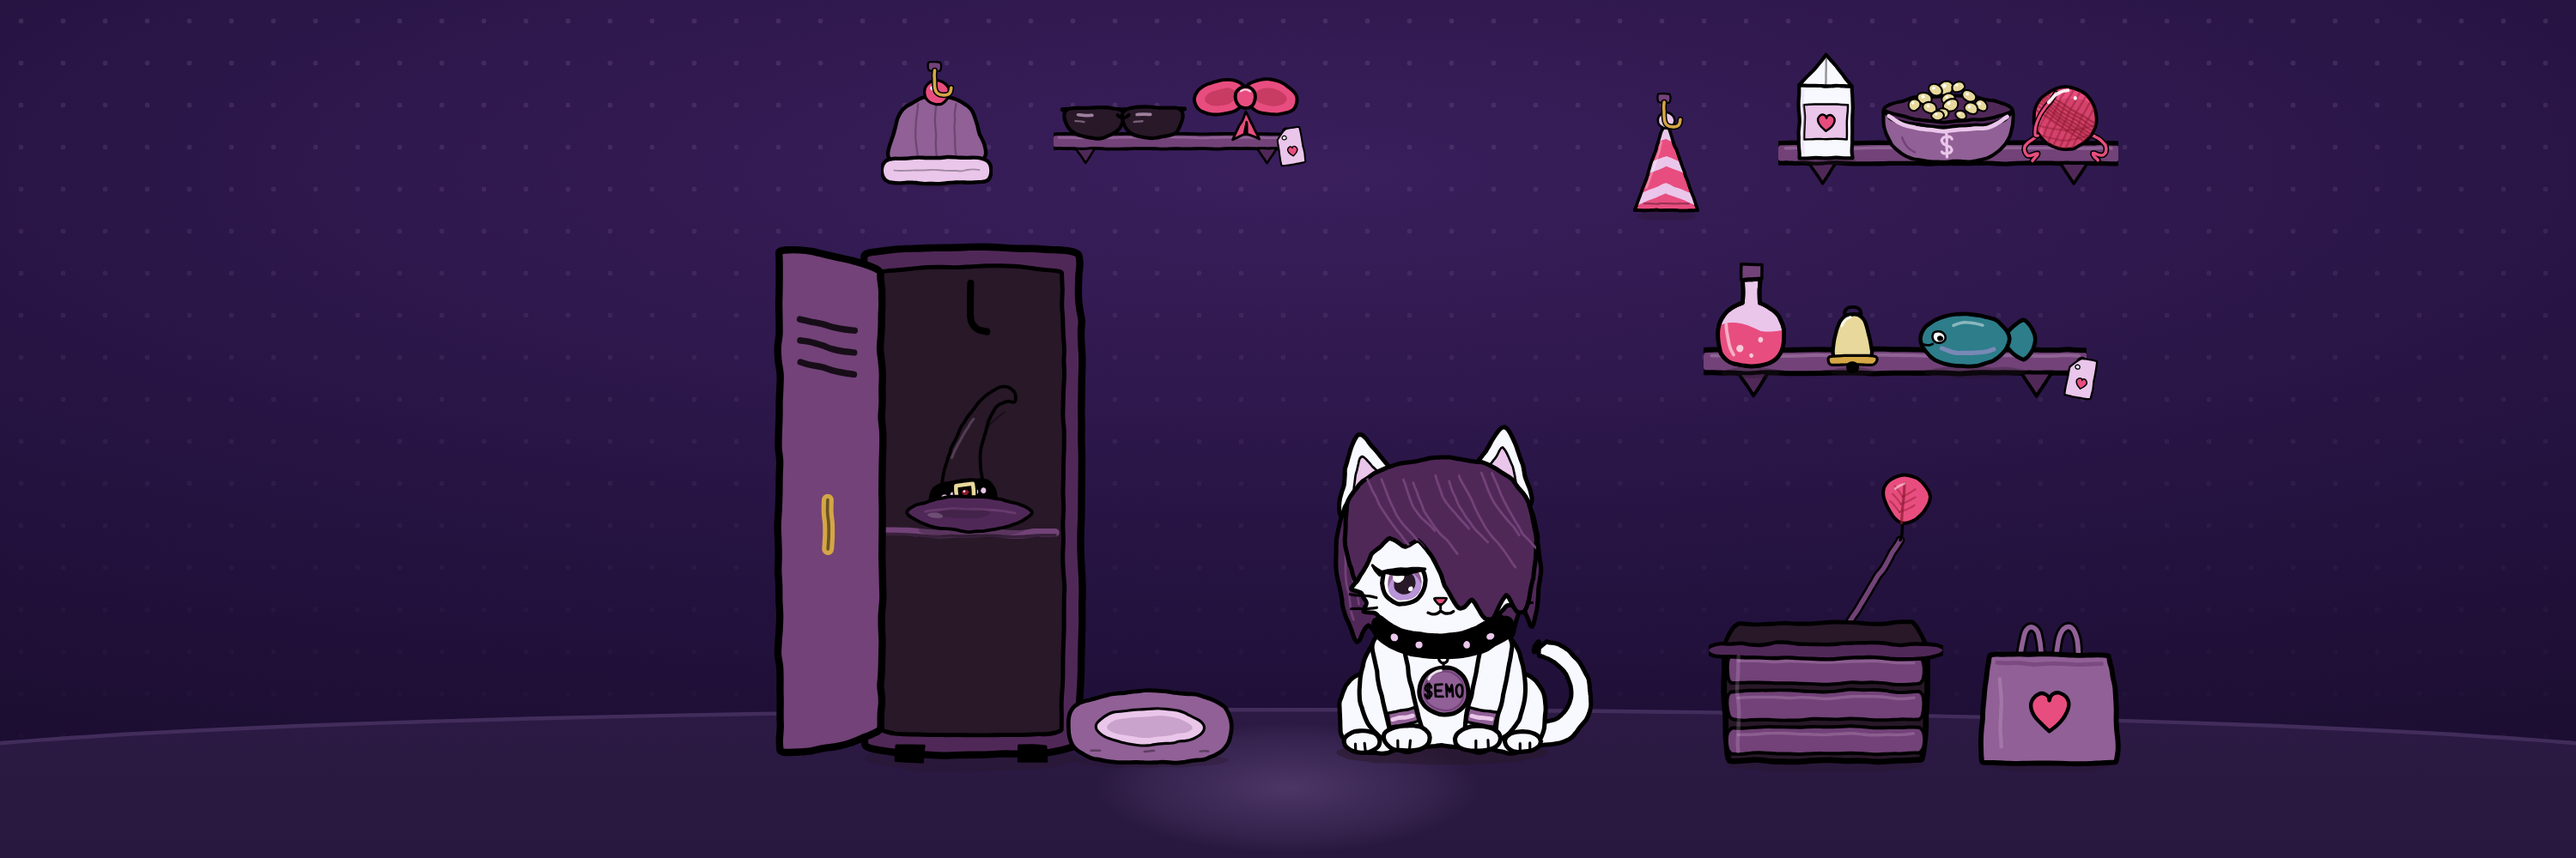
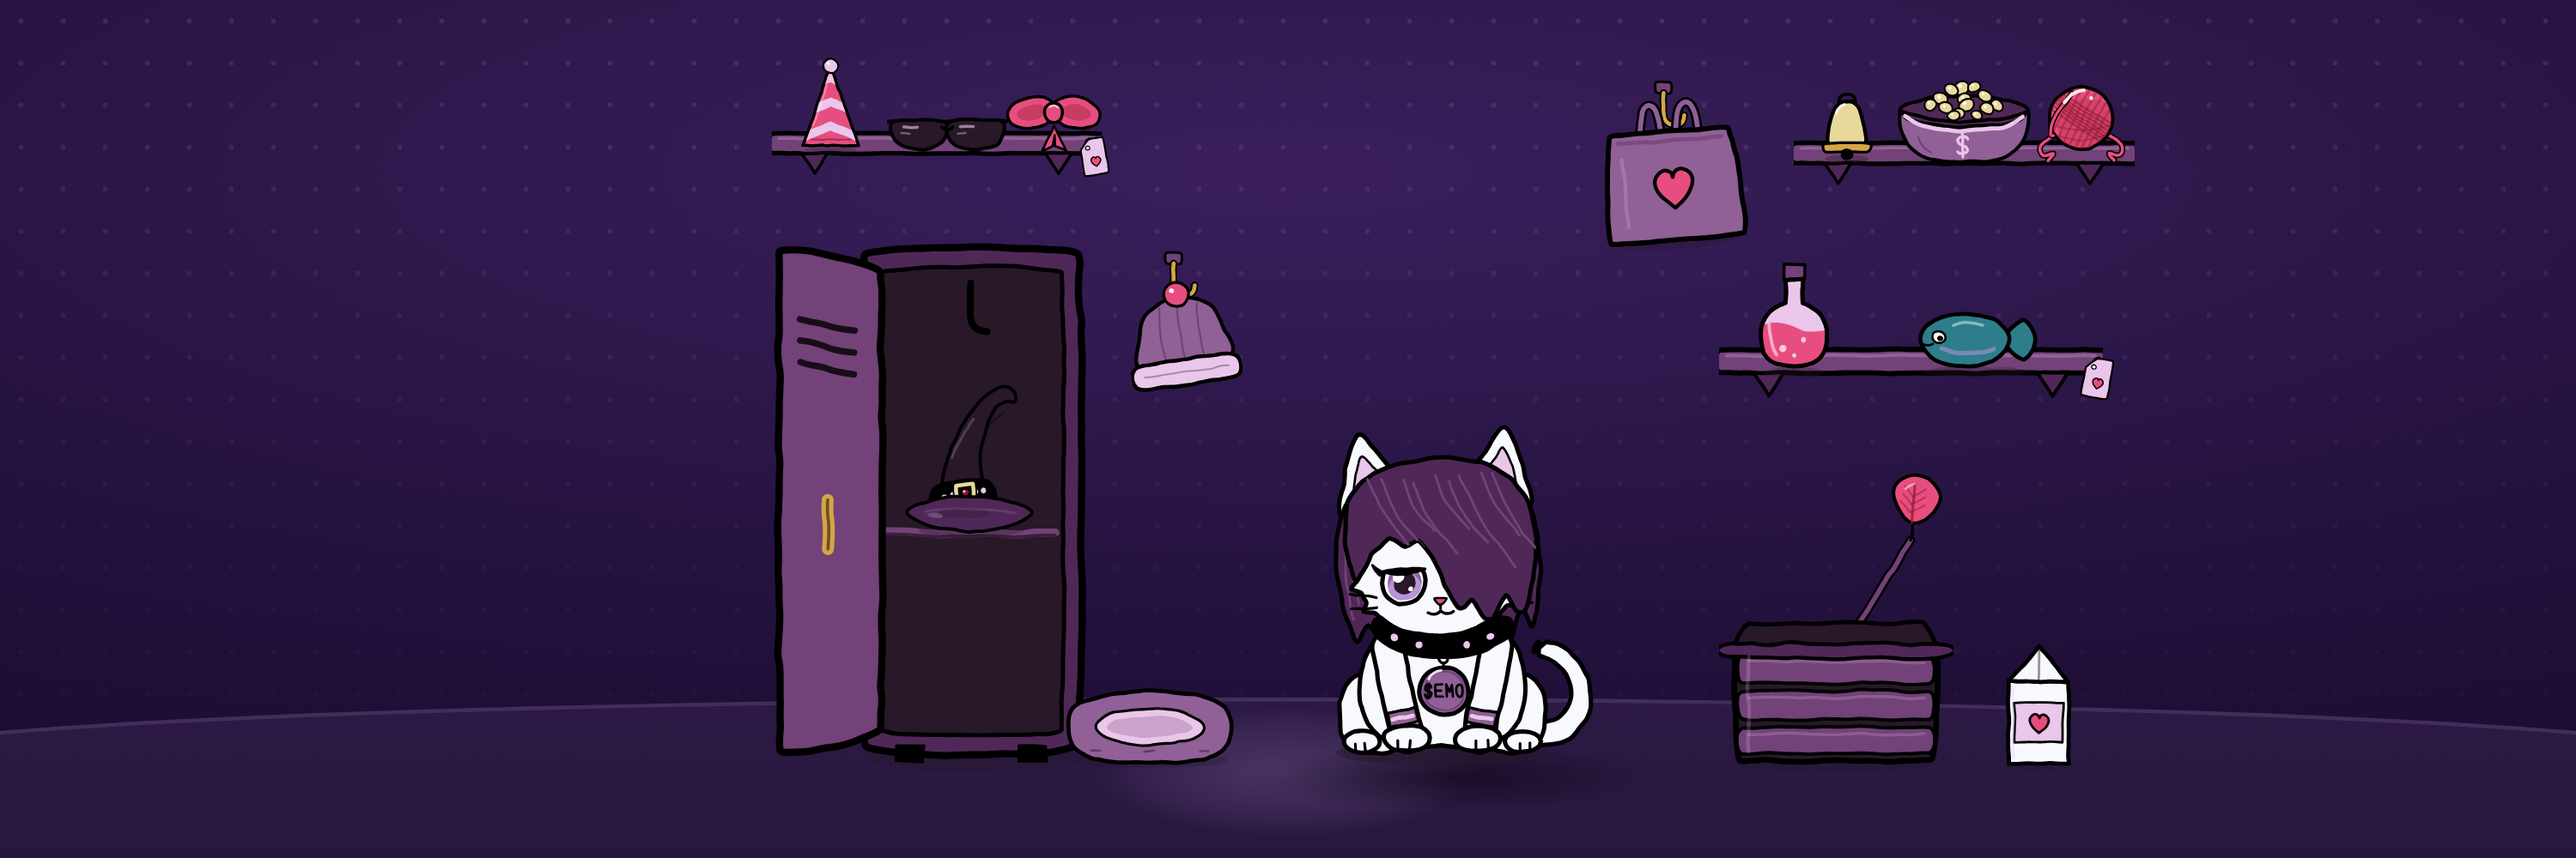
Items shop: hung things hang, the cat stands, the floor is stocked on both sides
Three faults the operator saw, and what each turned out to be.

**The hooks looked wrong.** The hook's J was drawn over the hat, so it read as the hook impaling the
pompom. A hung thing hides the J: the hook sits behind, only its plate and stem show above, and the
thing tilts a little. Cones don't hang from hooks at all, so the party hat moved to a shelf, the bag
hangs by its handles and the beanie by its crown. The beanie's hook had no headroom above the locker
to show a stem, so its shelf moved up over the locker, the locker's own width, and the beanie hangs
in the gap between locker and cat.

**The cat floated.** Every prop carries a baked contact shadow at its base; the on-chain cat has none,
and the light "glow" ellipse was centred below the feet, which read as hovering over a spotlight. The
cat has a real shadow under its feet now, the glow is centred on them, and the floor's curved edge is
set at 0.14 of a cat above the feet, the game's exact proportion, in cat units rather than a frame
percentage so all four frames match.

**Stock the floor too.** The milk carton stands by the crate; the bell went up a shelf.

The scene is still one layout in cat units, converted per frame, so the header, featured card, X
header and link card are the same shop.

diff --git a/apps/web/public/brand/items/index.html b/apps/web/public/brand/items/index.html
@@ -21,22 +21,22 @@ Emogotchi itself, by <code>tools/items-brand.mjs</code>. The cats kit is at <a h
 <p class="lead">A marketplace crops one header file twice: <b>8:3</b> on desktop and <b>16:9</b> on a phone. A 16:9
 slice of an 8:3 image is the middle 66.7% of its width, so nothing that matters may sit outside that band. The round
 collection logo also covers the bottom-left corner, which is why there is no text anywhere on it.</p>
-<div class="piece"><h2>Collection logo · PNG, 1:1. OpenSea asks for 240×240 minimum; this is 1024 so it stays sharp.<small>1024×1024 · 397 KB · <a href="../items-logo.png" download>items-logo.png</a></small></h2>
+<div class="piece"><h2>Collection logo · PNG, 1:1. OpenSea asks for 240×240 minimum; this is 1024 so it stays sharp.<small>1024×1024 · 391 KB · <a href="../items-logo.png" download>items-logo.png</a></small></h2>
 <div class="frame"><img src="../items-logo.png" alt=""></div><div class="thumbs"><img src="../items-logo.png" width="120" height="120" alt="">
   <img src="../items-logo.png" width="64" height="64" alt=""><small>how it reads at the sizes a marketplace actually renders it</small></div></div>
 <div class="piece"><h2>Logo on transparent · 1024×1024. For overlays and avatars.<small>1024×1024 · 63 KB · <a href="../items-logo-transparent.png" download>items-logo-transparent.png</a></small></h2>
 <div class="frame"><img src="../items-logo-transparent.png" alt=""></div></div>
-<div class="piece"><h2>Page header · 8:3 on desktop, cropped to the middle 16:9 on a phone. Same file, two crops.<small>2400×900 · 670 KB · <a href="../items-banner.png" download>items-banner.png</a></small></h2>
+<div class="piece"><h2>Page header · 8:3 on desktop, cropped to the middle 16:9 on a phone. Same file, two crops.<small>2400×900 · 676 KB · <a href="../items-banner.png" download>items-banner.png</a></small></h2>
 <div class="frame"><img src="../items-banner.png" alt=""></div><div class="crops">
   <div class="crop"><b>Desktop · 8:3</b><div class="box d"><img src="../items-banner.png" alt=""></div></div>
   <div class="crop"><b>Phone · 16:9, the middle of the same file</b><div class="box m"><img src="../items-banner.png" alt=""></div></div>
 </div></div>
-<div class="piece"><h2>Featured / card · 3:2.<small>1200×800 · 387 KB · <a href="../items-featured.png" download>items-featured.png</a></small></h2>
+<div class="piece"><h2>Featured / card · 3:2.<small>1200×800 · 403 KB · <a href="../items-featured.png" download>items-featured.png</a></small></h2>
 <div class="frame"><img src="../items-featured.png" alt=""></div></div>
-<div class="piece"><h2>X header · 1500×500 (3:1). Avatar covers the bottom-left, so the shop sits right of centre.<small>3000×1000 · 824 KB · <a href="../items-x-header.png" download>items-x-header.png</a></small></h2>
+<div class="piece"><h2>X header · 1500×500 (3:1). Avatar covers the bottom-left, so the shop sits right of centre.<small>3000×1000 · 832 KB · <a href="../items-x-header.png" download>items-x-header.png</a></small></h2>
 <div class="frame"><img src="../items-x-header.png" alt=""></div></div>
-<div class="piece"><h2>Link preview (Open Graph / X card) · 2400×1260 (1.91:1).<small>2400×1260 · 906 KB · <a href="../items-og.png" download>items-og.png</a></small></h2>
+<div class="piece"><h2>Link preview (Open Graph / X card) · 2400×1260 (1.91:1).<small>2400×1260 · 915 KB · <a href="../items-og.png" download>items-og.png</a></small></h2>
 <div class="frame"><img src="../items-og.png" alt=""></div></div>
-<div class="piece"><h2>Item card · 1:1. The template every item token image uses; this one is the witch hat.<small>1024×1024 · 364 KB · <a href="../item-witchhat.png" download>item-witchhat.png</a></small></h2>
+<div class="piece"><h2>Item card · 1:1. The template every item token image uses; this one is the witch hat.<small>1024×1024 · 375 KB · <a href="../item-witchhat.png" download>item-witchhat.png</a></small></h2>
 <div class="frame"><img src="../item-witchhat.png" alt=""></div></div>
 </body></html>
